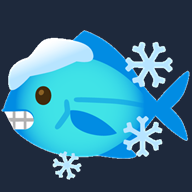
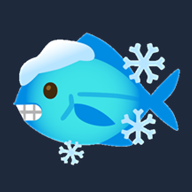
Update manifest and app images

diff --git a/vite.config.ts b/vite.config.ts
@@ -8,8 +8,9 @@ export default defineConfig({
     react(),
     VitePWA({
       registerType: 'autoUpdate',  // Automatically update Service Worker
-      includeAssets: ['favicon.ico', 'robots.txt', 'apple-touch-icon.png'],  // Files to cache
+      includeAssets: ['chill-schooler.png', 'robots.txt', 'apple-touch-icon.png'],  // Files to cache
       manifest: {
+        id: 'kroljs_chill-krill',
         name: 'Chill Krill',  // Full app name
         short_name: 'Chill Krill',  // Short name displayed on home screen
         description: 'General knowledge trivia at your pace',
